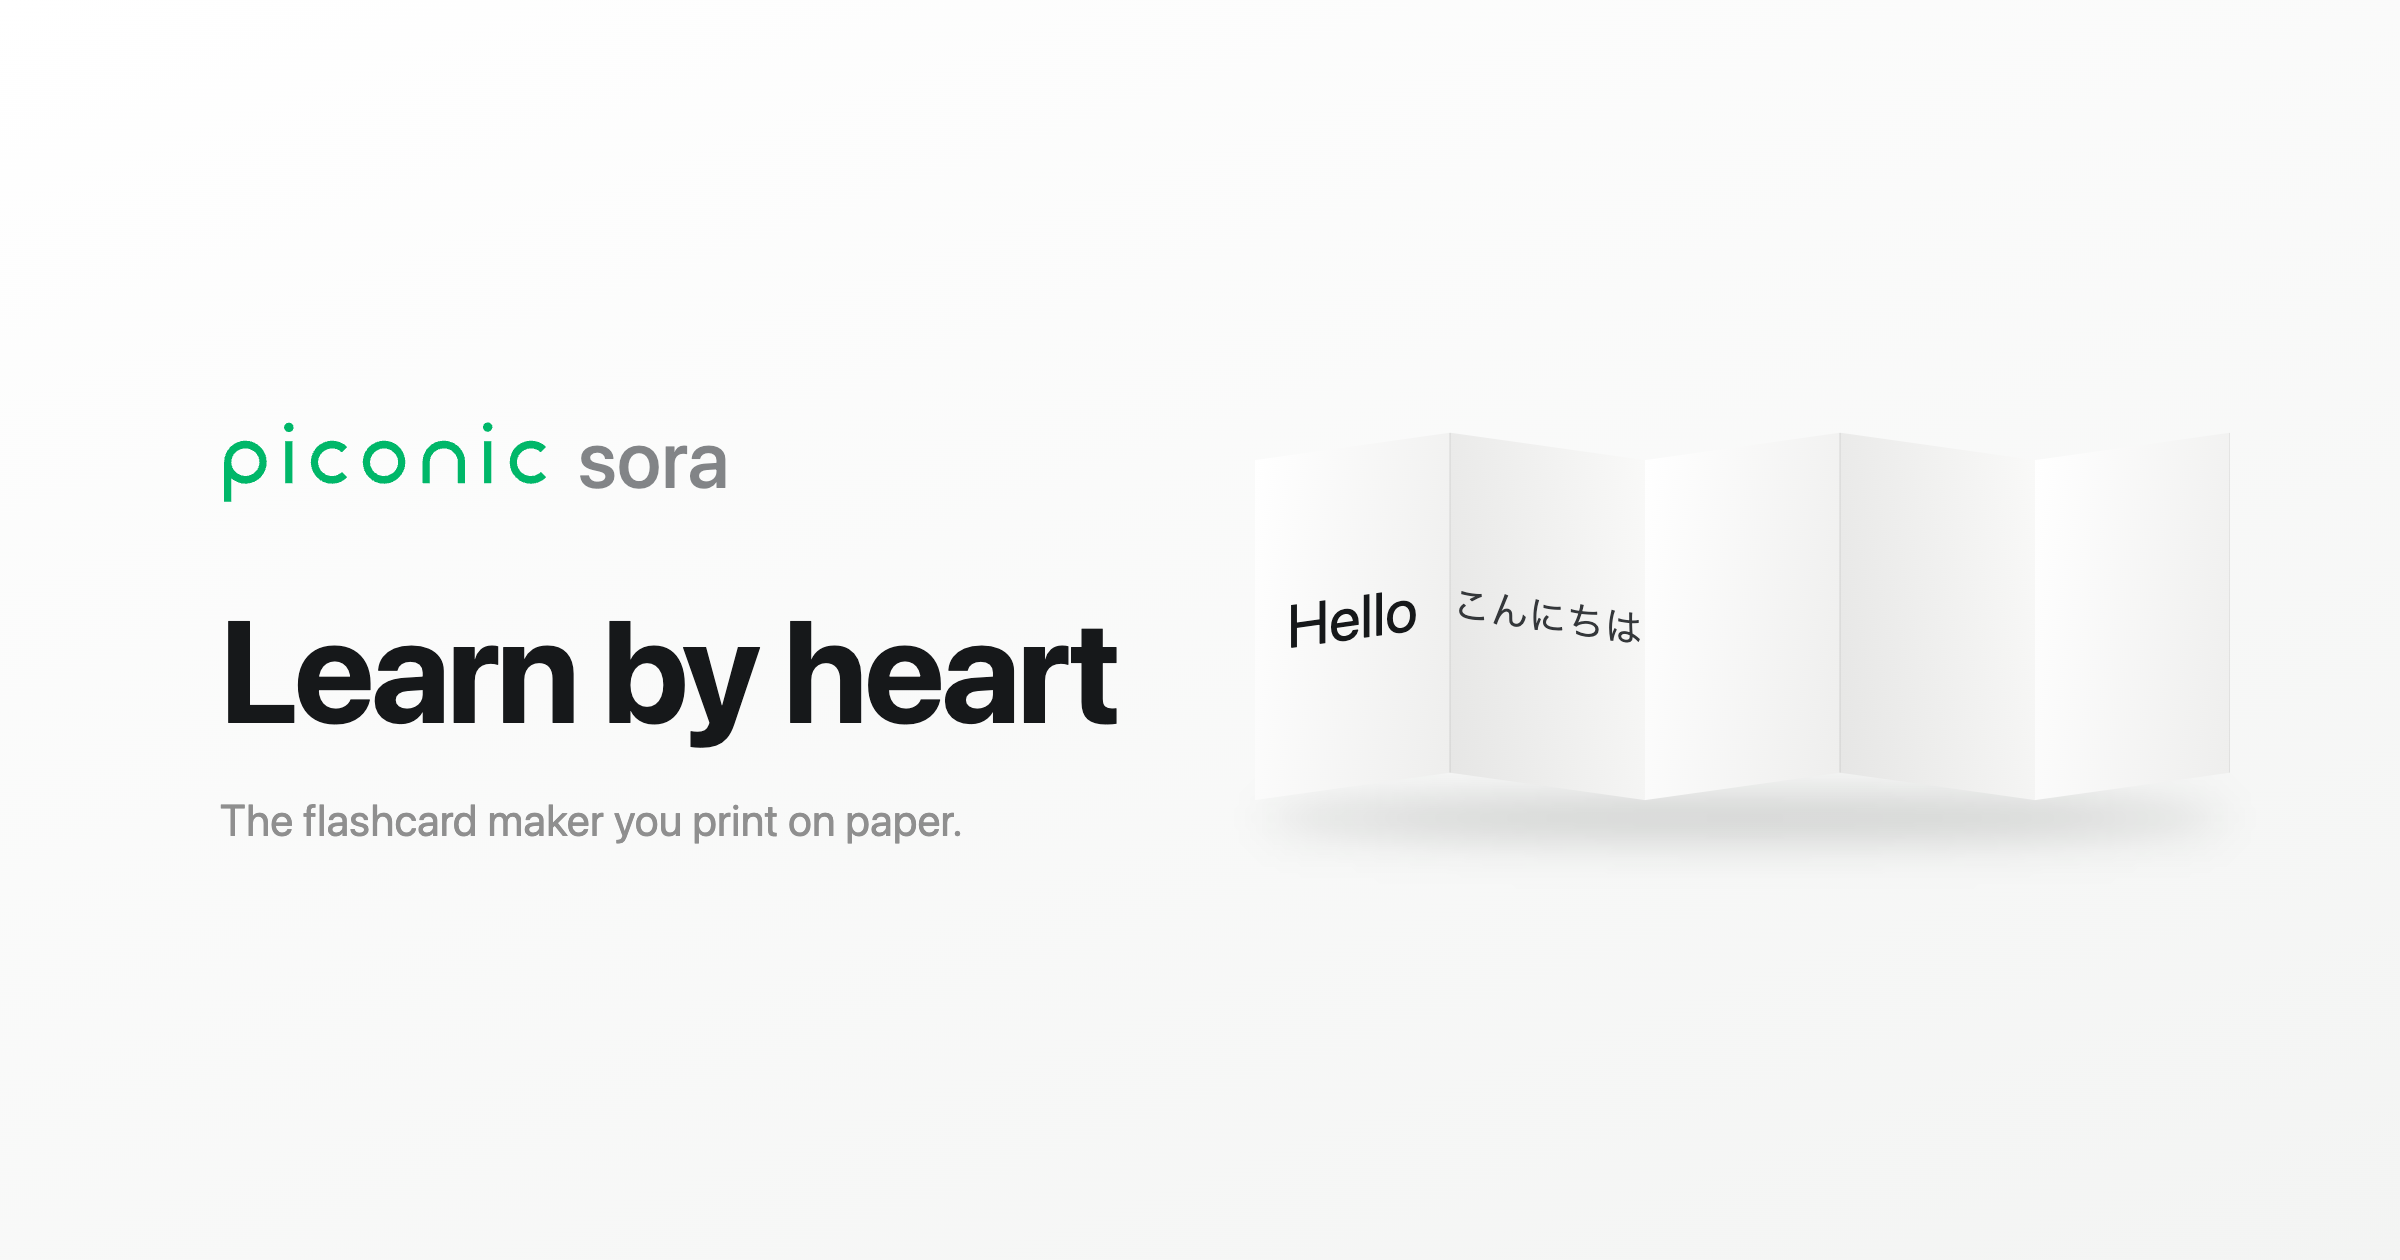
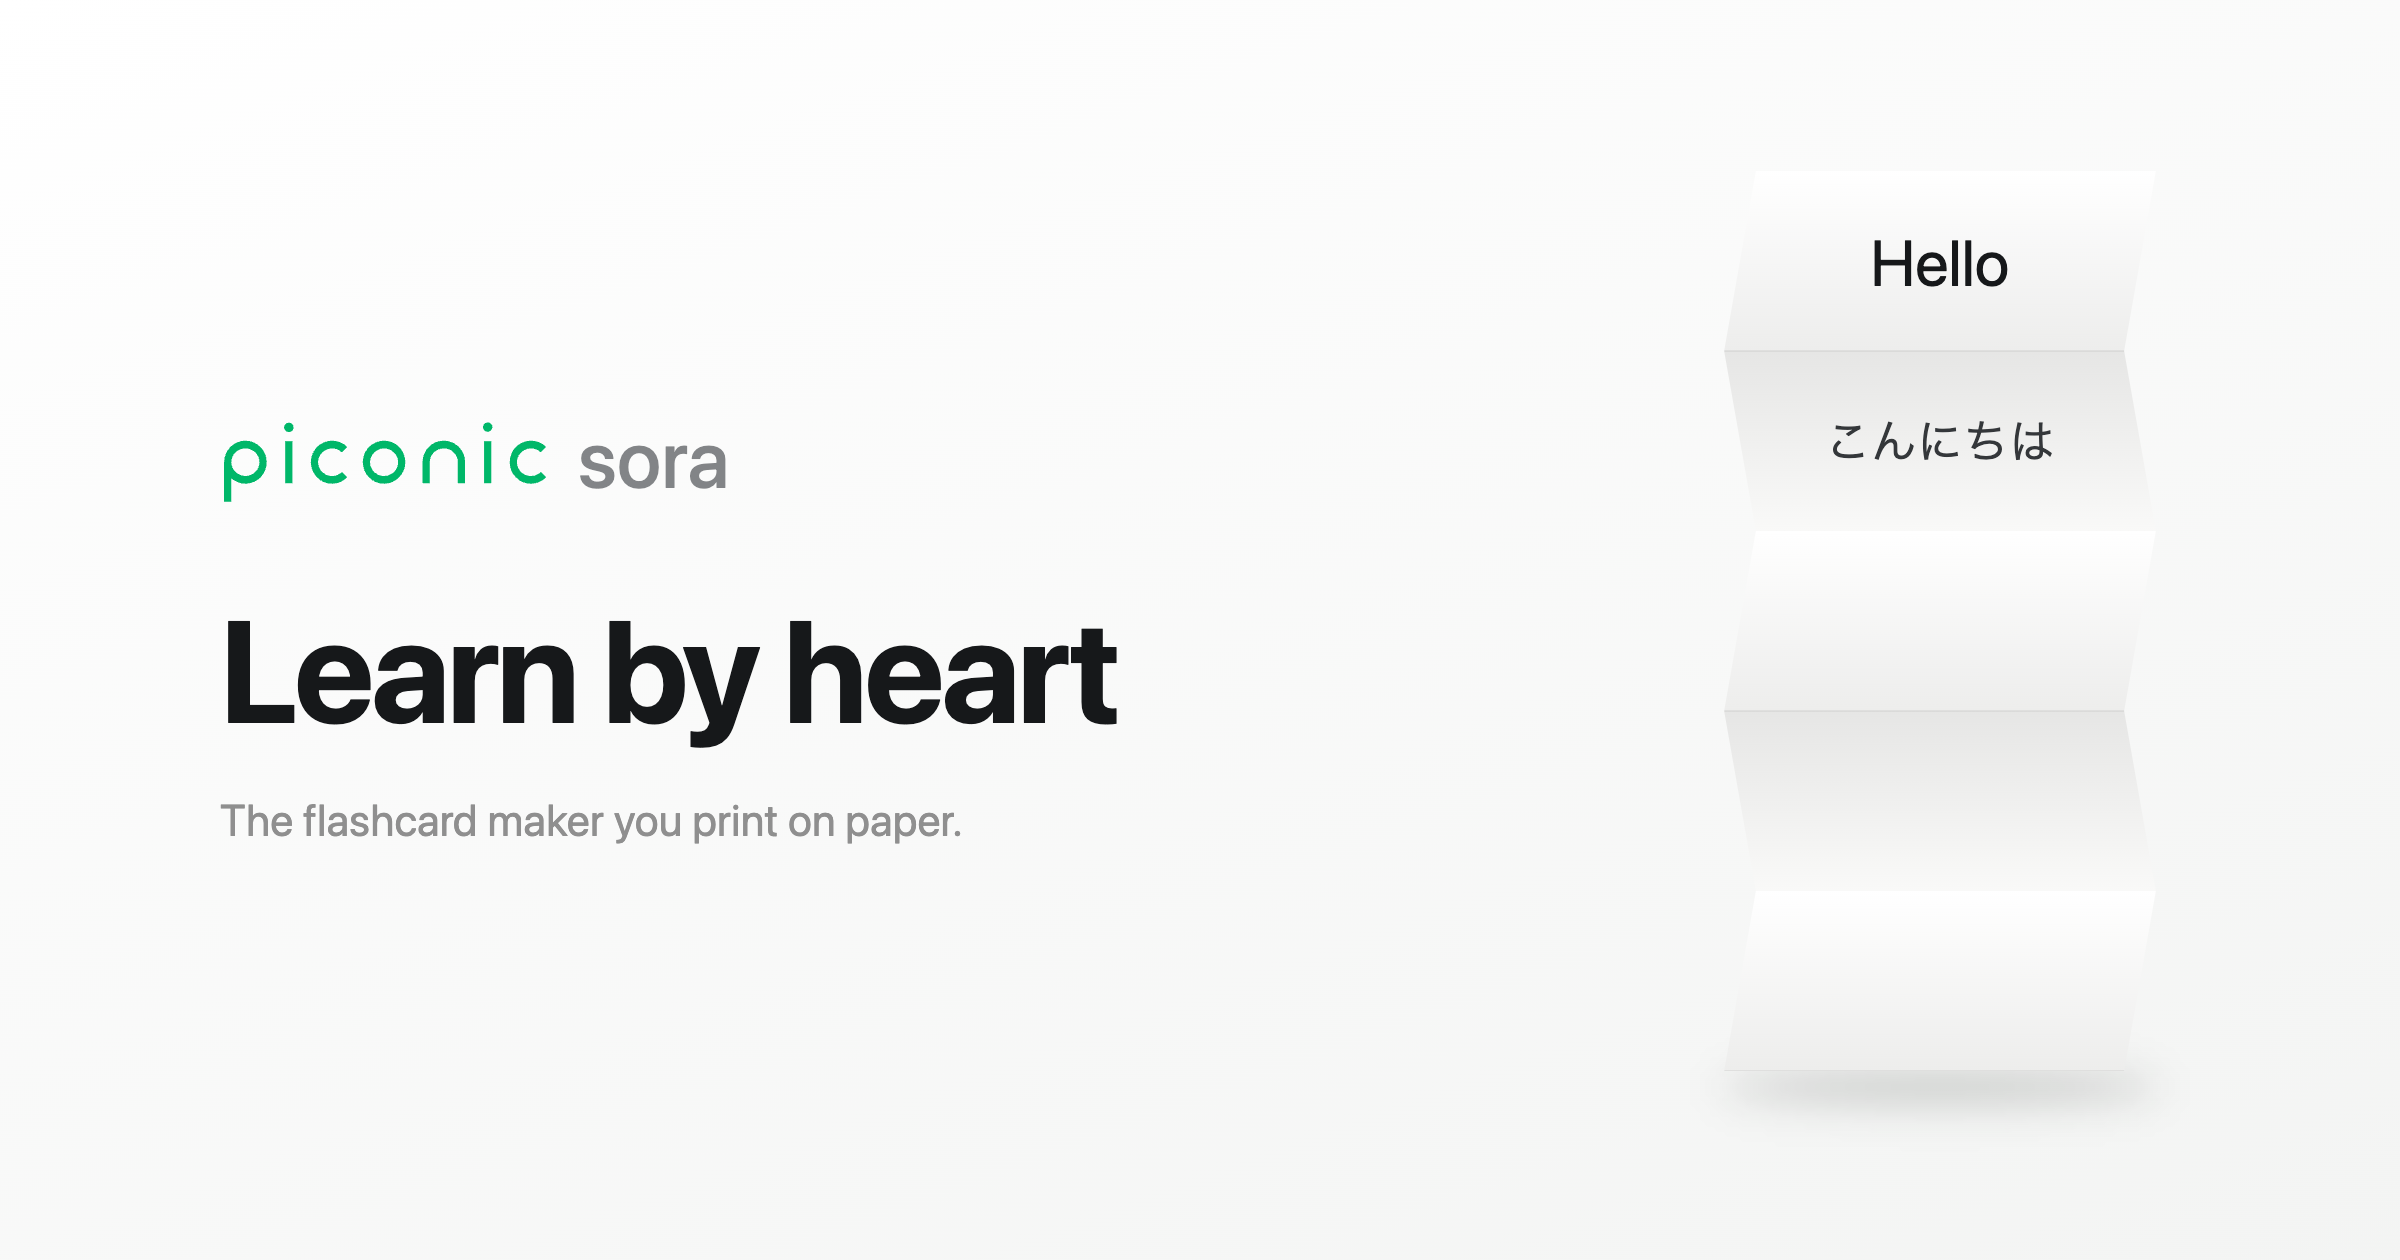
design: turn the OG card's accordion strip upright
A real strip is a vertical band creased horizontally, so the faces now
stack top-to-bottom with Hello above こんにちは — matching how the
printed strip actually folds. Words are counter-skewed so the glyphs
stay printed-straight while the faces carry the fold.

diff --git a/docs/og.html b/docs/og.html
@@ -56,51 +56,57 @@
     color: #8f8f8f;
   }
 
-  /* ---- right: an accordion-folded strip, standing on the page ----
+  /* ---- right: an accordion-folded strip, upright as in reality ----
      The hero is the product's defining moment: the printed strip,
-     folded. Faces are alternately skewed rectangles; alternating light
-     picks out the folds. Same silhouette as the favicon's chevron. */
+     folded. A real strip is a vertical band creased horizontally, so
+     the faces stack top-to-bottom; alternating light picks out the
+     folds. Same silhouette as the favicon's chevron, turned upright. */
   .strip {
     position: absolute;
-    right: 170px;
+    right: 260px;
     top: 50%;
-    transform: translateY(-54%);
+    transform: translateY(-51%);
     display: flex;
+    flex-direction: column;
   }
   .face {
-    width: 195px;
-    height: 340px;
+    width: 400px;
+    height: 180px;
     display: flex;
     align-items: center;
     justify-content: center;
     color: #16181a;
   }
-  /* valley faces tilt away (darker), peak faces tilt toward (lighter) */
+  /* peak creases catch the light, valley creases fall into shade */
   .face.a {
-    transform: skewY(-8deg);
-    background: linear-gradient(100deg, #ffffff 0%, #eeeeed 100%);
-    box-shadow: inset -1px 0 0 rgba(0, 0, 0, 0.06);
+    transform: skewX(-10deg);
+    background: linear-gradient(180deg, #ffffff 0%, #ededec 100%);
+    box-shadow: inset 0 -1px 0 rgba(0, 0, 0, 0.06);
   }
   .face.b {
-    transform: skewY(8deg);
-    background: linear-gradient(80deg, #e6e6e5 0%, #f9f9f8 100%);
-    box-shadow: inset 1px 0 0 rgba(0, 0, 0, 0.05);
+    transform: skewX(10deg);
+    background: linear-gradient(180deg, #e6e6e5 0%, #f9f9f8 100%);
+    box-shadow: inset 0 1px 0 rgba(0, 0, 0, 0.05);
   }
+  /* counter-skew the words so the glyphs stand upright — the face
+     carries the fold, the type stays printed-straight */
   .face span { white-space: nowrap; }
-  .face .front { font-size: 60px; }
-  .face .back { font-size: 38px; color: #34373a; }
+  .face.a span { transform: skewX(10deg); }
+  .face.b span { transform: skewX(-10deg); }
+  .face .front { font-size: 64px; }
+  .face .back { font-size: 46px; color: #34373a; }
 
-  /* soft ground shadow beneath the standing strip */
+  /* soft ground shadow under the strip's bottom edge */
   .strip-shadow {
     position: absolute;
-    right: 175px;
+    right: 240px;
     top: 50%;
-    transform: translateY(168px);
-    width: 960px;
-    height: 40px;
+    transform: translateY(440px);
+    width: 440px;
+    height: 34px;
     border-radius: 50%;
     background: rgba(20, 24, 22, 0.2);
-    filter: blur(22px);
+    filter: blur(20px);
   }
 </style>
 </head>